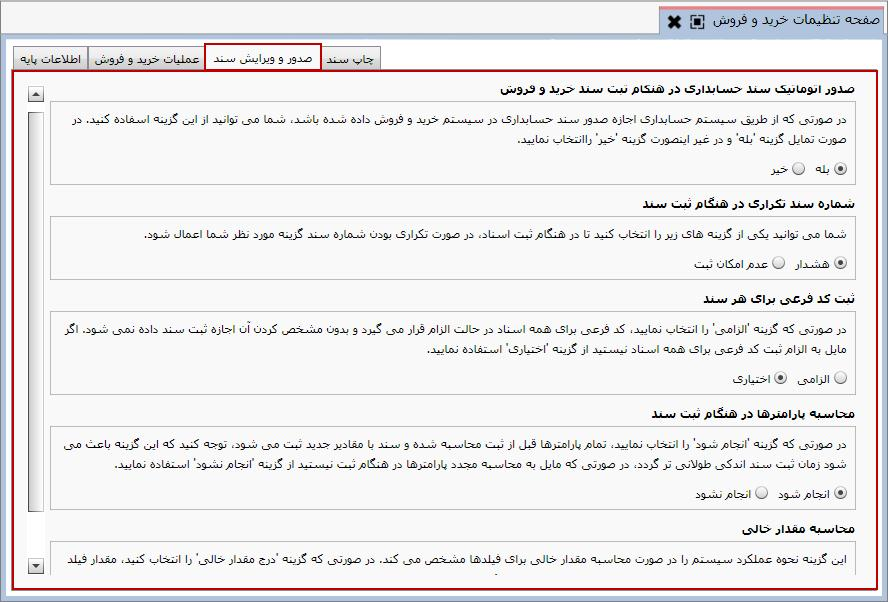
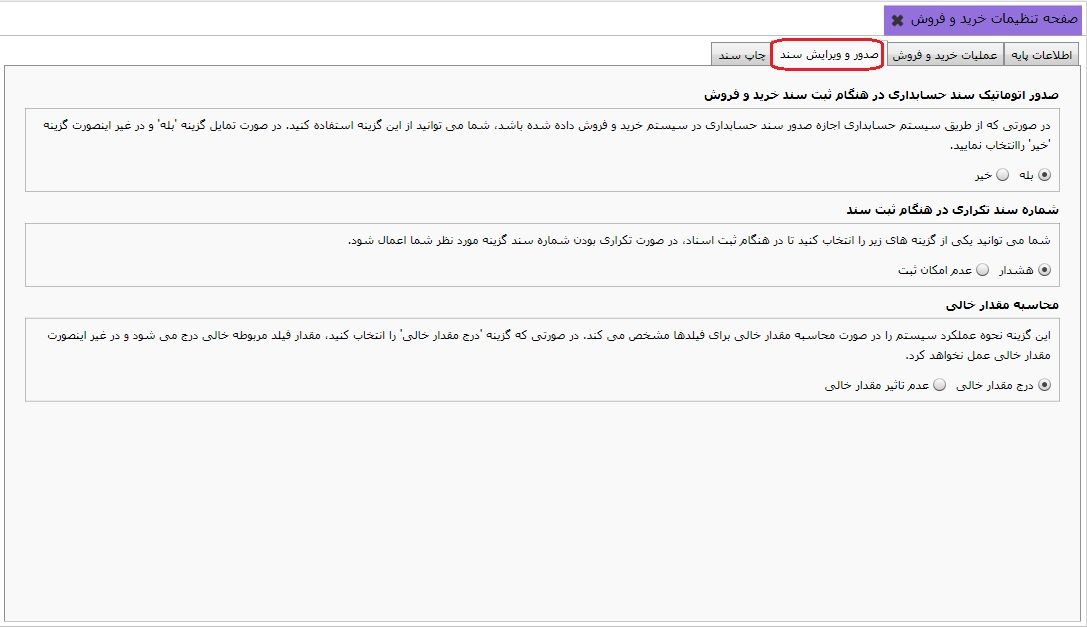
صفحه ی تنظیمات خرید و فروش

Changed region(s): [[0.0, 0.0, 1.0, 1.0]]

diff --git a/Help/fa-IR/_06_خرید و فروش/_17_صفحه تنظیمات خرید و فروش/Index.html b/Help/fa-IR/_06_خرید و فروش/_17_صفحه تنظیمات خرید و فروش/Index.html
@@ -17,9 +17,8 @@
 	<p>
 		همانطور که مشاهده می کنید این صفحه دارای چهار تب «اطلاعات پایه»،
 		«عملیات خرید و فروش»، «صدور و ویرایش سند» و «چاپ سند» می باشد که با انتخاب هرکدام
-		صفحه مربوطه نمایش داده می شود، در شکل بالا تب«اطلاعات پایه» انتخاب شده است.
+		صفحه مربوطه نمایش داده می شود، در شکل زیر تب «اطلاعات پایه» انتخاب شده است.
 	</p>
-	<hr />
 	<h2> اطلاعات پایه </h2>
 	<img class="FitPic" src="l1.jpg" />
 	<p>
@@ -46,7 +45,7 @@
 	</p>
 	<img class="FitPic" src="l2.jpg" />
 	<p>
-		در این صفحه پنج قسمت وجود دارد که توضیحات کافی در هر قسمت بیان شده است، بعد از مطالعه
+		در این صفحه سه قسمت وجود دارد که توضیحات کافی در هر قسمت بیان شده است، بعد از مطالعه
 		هر کدام می توانید با انتخاب یکی ازگزینه ها تنظیمات را به دلخواه انجام دهید.
 	</p>
 	<hr />
